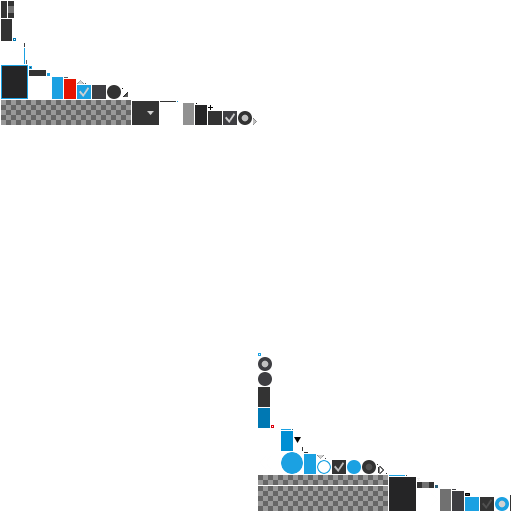
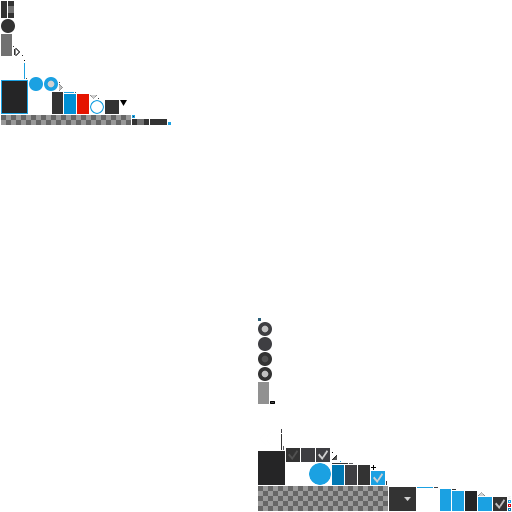
Creating new USL files for VisUI 0.8.1 and removing alphaBar25pxShifted

Changed region(s): [[0.0, 0.0312, 0.5, 0.25], [0.5, 0.8438, 1.0, 1.0], [0.5, 0.625, 0.5312, 0.8438]]

diff --git a/UI/src/com/kotcrab/vis/ui/widget/color/AlphaImage.java b/UI/src/com/kotcrab/vis/ui/widget/color/AlphaImage.java
@@ -26,31 +26,31 @@ import com.badlogic.gdx.scenes.scene2d.utils.Drawable;
  * @author Kotcrab
  */
 public class AlphaImage extends Image {
-	private ColorPickerStyle style;
 	private Drawable alphaDrawable;
 	private boolean shiftAlpha;
 
 	public AlphaImage (ColorPickerStyle style) {
 		super(style.white);
-		this.style = style;
-		setAlphaDrawable();
+		this.alphaDrawable = style.alphaBar25px;
 	}
 
 	public AlphaImage (ColorPickerStyle style, boolean shiftAlpha) {
 		super(style.white);
-		this.style = style;
+		this.alphaDrawable = style.alphaBar25px;
 		this.shiftAlpha = shiftAlpha;
-		setAlphaDrawable();
-	}
-
-	private void setAlphaDrawable () {
-		alphaDrawable = shiftAlpha ? style.alphaBar25pxShifted : style.alphaBar25px;
 	}
 
 	@Override
 	public void draw (Batch batch, float parentAlpha) {
 		batch.setColor(1, 1, 1, parentAlpha);
-		alphaDrawable.draw(batch, getX() + getImageX(), getY() + getImageY(), getImageWidth() * getScaleX(), getImageHeight() * getScaleY());
+		float x = getX() + getImageX();
+		float y = getY() + getImageY();
+		float width = getImageWidth() * getScaleX();
+		float height = getImageHeight() * getScaleY();
+		if (shiftAlpha)
+			alphaDrawable.draw(batch, x + width, y, width * -1, height);
+		else
+			alphaDrawable.draw(batch, x, y, width, height);
 		super.draw(batch, parentAlpha);
 	}
 }

diff --git a/USL/src/com/kotcrab/vis/usl/Lexer.java b/USL/src/com/kotcrab/vis/usl/Lexer.java
@@ -216,8 +216,8 @@ public class Lexer {
 				content = streamToString(USL.class.getResourceAsStream("visui-0.7.7.usl"));
 			else if (includeName.equals("visui-0.8.0"))
 				content = streamToString(USL.class.getResourceAsStream("visui-0.8.0.usl"));
-			else if (includeName.equals("visui"))
-				content = streamToString(USL.class.getResourceAsStream("visui-0.8.0.usl"));
+			else if (includeName.equals("visui-0.8.1") || includeName.equals("visui"))
+				content = streamToString(USL.class.getResourceAsStream("visui-0.8.1.usl"));
 			else
 				Utils.throwException("Invalid internal include file: " + includeName, usl, i);
 

diff --git a/USL/src/com/kotcrab/vis/usl/USL.java b/USL/src/com/kotcrab/vis/usl/USL.java
@@ -10,7 +10,8 @@ public class USL {
 
 	/**
 	 * @param workingDirectory used for finding included files, may be null only if parsed string does not contains
-	 * any file include directive. Howewer 'include <gdx>' or 'include <visui>' is allowed
+	 * any file include directive. However 'include <gdx>' or 'include <visui>' is always allowed even when workingDirectory
+	 * is null.
 	 */
 	public static String parse (File workingDirectory, String usl) {
 		LexerContext context = new LexerContext(workingDirectory);

diff --git a/USL/test/com/kotcrab/vis/usl/test/USLParserTest.java b/USL/test/com/kotcrab/vis/usl/test/USLParserTest.java
@@ -13,6 +13,7 @@ public class USLParserTest {
 	public void testVisUslParser () throws Exception {
 		USL.parse(null, "include <visui-0.7.7>");
 		USL.parse(null, "include <visui-0.8.0>");
+		USL.parse(null, "include <visui-0.8.1>");
 		USL.parse(null, "include <visui>");
 	}
 

diff --git a/UI/src/com/kotcrab/vis/ui/widget/color/ColorPickerStyle.java b/UI/src/com/kotcrab/vis/ui/widget/color/ColorPickerStyle.java
@@ -26,7 +26,6 @@ public class ColorPickerStyle {
 	public Drawable horizontalSelector;
 	public Drawable alphaBar10px;
 	public Drawable alphaBar25px;
-	public Drawable alphaBar25pxShifted;
 
 	public ColorPickerStyle () {
 	}
